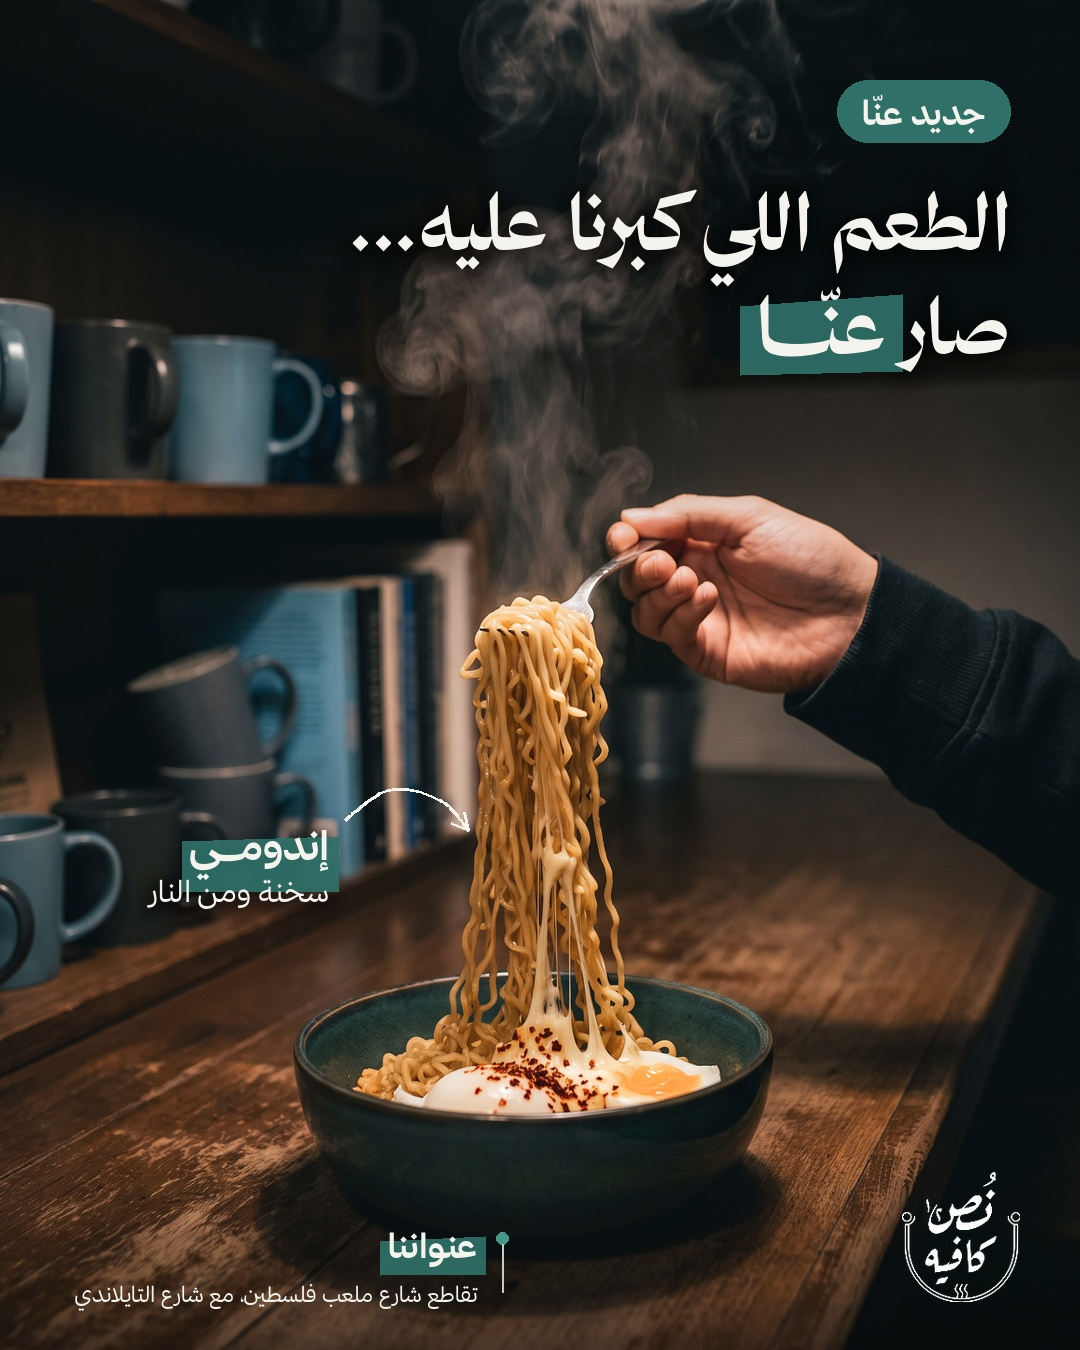
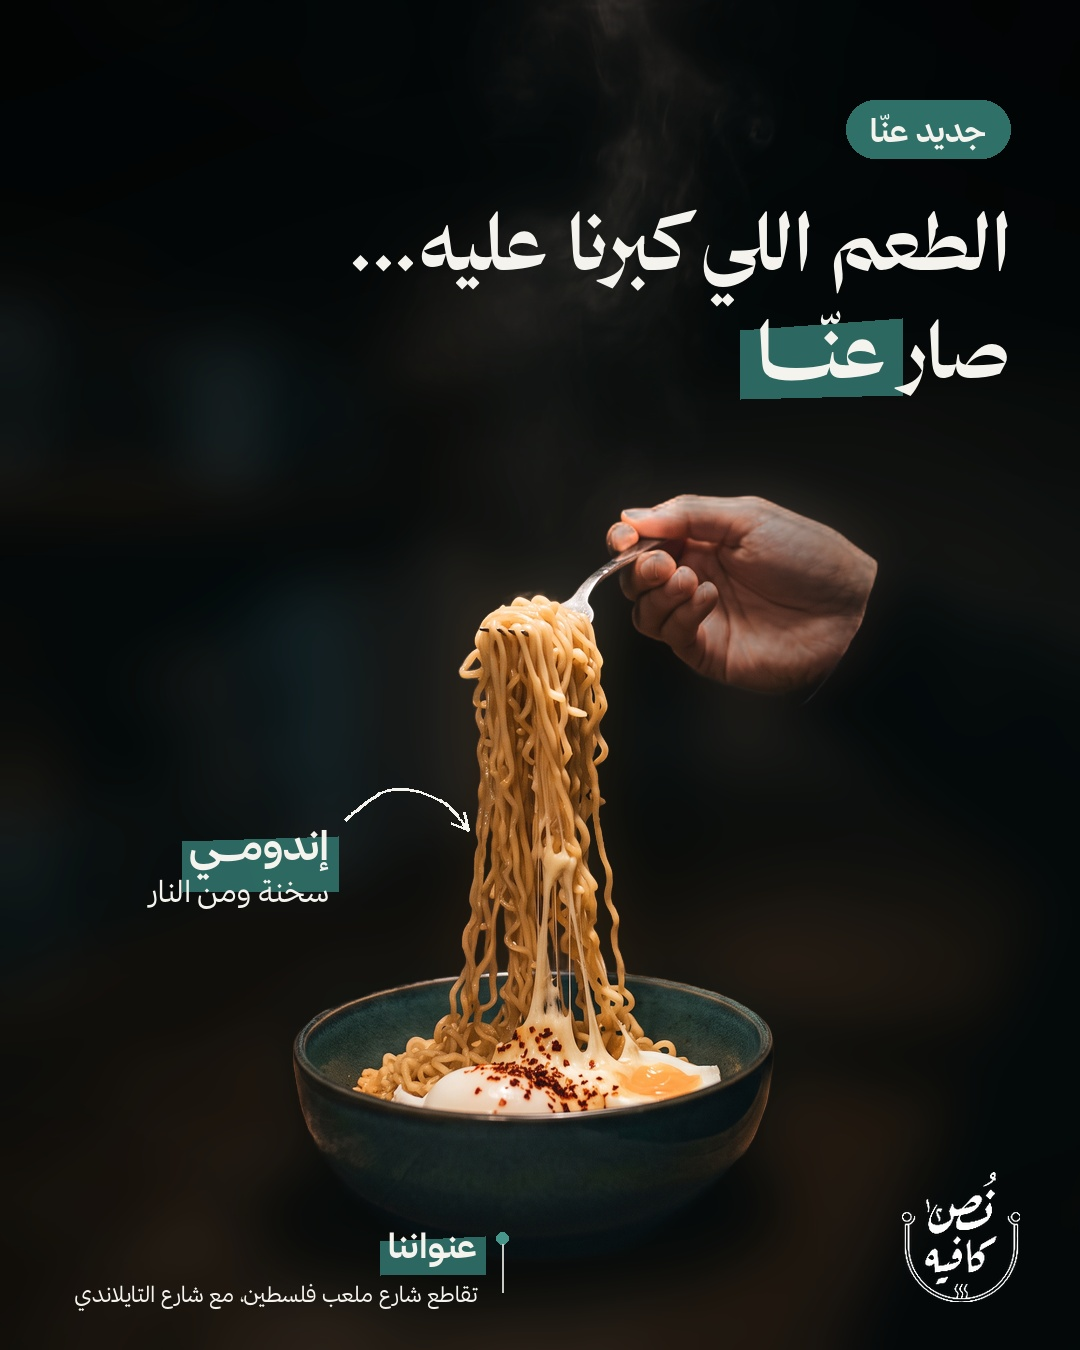
Rework Indomie posts per owner feedback: no text shadow, cleaner layout, blurred background
Claude-Session: https://claude.ai/code/session_015dwSS3fWoFBppmEP84oyNx

diff --git a/tools/example_indomie.py b/tools/example_indomie.py
@@ -1,34 +1,49 @@
-import os; exec(open(os.path.join(os.path.dirname(os.path.abspath(__file__)),'example_sample_style.py')).read().split("out=[]")[0])
-def load(n): return cover(Image.open(S+f'indomie/i{n}.png').convert('RGB')).convert('RGBA')
+import os; exec(open(os.path.join(os.path.dirname(os.path.abspath(__file__)),'post.py')).read())
+def compose(n,dy=0,zoom=1.0,bright=.33):
+    im=cover(Image.open(S+f'indomie/i{n}.png').convert('RGB')); m=Image.open(S+f'indomie/m{n}.png').convert('L')
+    m=m.point(lambda v:min(255,int(v*1.4)))
+    bg=im.filter(ImageFilter.GaussianBlur(26)); bg=ImageEnhance.Brightness(bg).enhance(bright)
+    bg=Image.blend(bg,Image.new('RGB',(W,H),(10,24,23)),.25)
+    sharp=Image.composite(im,bg,m)
+    if zoom!=1.0 or dy:
+        s=sharp.resize((round(W*zoom),round(H*zoom)),Image.LANCZOS); mm=m.resize(s.size)
+        base=bg.resize((round(W*1.15),round(H*1.15))).crop((round(W*.075),round(H*.075),round(W*.075)+W,round(H*.075)+H))
+        x=(W-s.width)//2; base.paste(s,(x,dy),mm.point(lambda v:255 if v>0 else 0).filter(ImageFilter.GaussianBlur(3)) if False else None) if False else None
+        canvas=bg.copy(); canvas.paste(s,(x,dy)); 
+        # blend seam: fade top of pasted region
+        fm=Image.new('L',s.size,255); fd=ImageDraw.Draw(fm)
+        for i in range(120): fd.line([(0,i),(s.width,i)],fill=int(255*i/120))
+        canvas=bg.copy(); canvas.paste(s,(x,dy),fm); sharp=canvas
+    # vignette
+    v=Image.new('L',(W//4,H//4),0); vd=ImageDraw.Draw(v); vd.ellipse([-40,40,W//4+40,H//4+40],fill=255)
+    v=v.filter(ImageFilter.GaussianBlur(40)).resize((W,H))
+    sharp=Image.composite(sharp,ImageEnhance.Brightness(sharp).enhance(.55),v)
+    return sharp.convert('RGBA')
 def pill(img,XR,y,t='جديد عنّا'):
-    d=ImageDraw.Draw(img); f=SB(34); w=tw(d,t,f)
-    d.rounded_rectangle([XR-w-50,y,XR,y+62],radius=31,fill=(47,112,104)); d.text((XR-25,y+45),t,font=f,fill=WHITE,direction='rtl',anchor='rs')
+    d=ImageDraw.Draw(img); f=SB(32); w=tw(d,t,f)
+    d.rounded_rectangle([XR-w-48,y,XR,y+58],radius=29,fill=(47,112,104)); d.text((XR-24,y+42),t,font=f,fill=WHITE,direction='rtl',anchor='rs')
+def head(img,l1,a,b,XR=1010,y=270,f=None,gap=108):
+    f=f or DB(84); d=ImageDraw.Draw(img); wa=tw(d,a,f) if a else 0
+    hl(img,d,XR-wa,y+gap,b,f,pad=(16,4),skew=8); d=ImageDraw.Draw(img)
+    text(d,XR,y,l1,f)
+    if a: text(d,XR,y+gap,a,f)
+    text(d,XR-wa,y+gap,b,f)
+def lab(img,lx,ly,bo,su,arr):
+    d=ImageDraw.Draw(img); hl(img,d,lx,ly,bo,SB(40),pad=(8,2),skew=3); d=ImageDraw.Draw(img)
+    text(d,lx,ly,bo,SB(40)); text(d,lx,ly+42,su,SR(30)); arrow(img,arr)
 out=[]
-# 1 rainy window
-im=load(1); scrim(im,(140,40,820,420)); fade_bottom(im)
-pill(im,760,80)
-headline(im,760,250,'برّا بتشتّي...','وجوّا ','إندومـــي',DB(86),gap=110)
-label(im,620,640,'إندومـــي','مع بيضة وبهار',[(560,690),(550,740),(530,775),(510,800)])
+im=compose(1); pill(im,1010,100); head(im,'برّا بتشتّي...','وجوّا ','إندومـــي')
+lab(im,1000,690,'إندومـــي','مع بيضة وبهار',[(860,700),(800,720),(740,760),(700,800)])
 footer(im,ImageDraw.Draw(im)); out.append(im)
-# 2 fork lift
-im=load(2); scrim(im,(420,40,1060,420)); fade_bottom(im)
-pill(im,1010,80)
-headline(im,1010,250,'الطعم اللي كبرنا عليه...','صار ','عنّـــا',DB(78),gap=104)
-label(im,330,860,'إندومـــي','سخنة ومن النار',[(345,820),(390,790),(440,800),(468,830)])
+im=compose(2); pill(im,1010,100); head(im,'الطعم اللي كبرنا عليه...','صار ','عنّـــا',f=DB(78))
+lab(im,330,860,'إندومـــي','سخنة ومن النار',[(345,820),(390,790),(440,800),(468,830)])
 footer(im,ImageDraw.Draw(im)); out.append(im)
-# 3 woman winter (headline bottom like sample)
-im=load(3)
+im=compose(3,dy=260,zoom=1.0); pill(im,1010,90); head(im,'بردانين؟','دفّوا حالكم ','بإندومـــي',y=250,f=DB(80),gap=104)
+lab(im,300,700,'إندومي','سخنة وبتدفّي',[(240,760),(270,840),(350,900),(425,925)])
 g=Image.new('L',(1,H))
-for y in range(H): g.putpixel((0,y),int(255*min(1,max(0,(y-H*.68)/(H*.32))**1.3*.75)))
+for y in range(H): g.putpixel((0,y),int(255*min(1,max(0,(y-H*.86)/(H*.14))**1.2*.55)))
 im.alpha_composite(Image.merge('RGBA',(*Image.new('RGB',(W,H),(8,10,10)).split(),g.resize((W,H)))))
-f=DB(120); d=ImageDraw.Draw(im)
-shadow_text(im,[(1030,1130,'بردانين؟',f),(1030,1265,'دفّوا حالكم... بإندومـــي',DB(70))])
-d=ImageDraw.Draw(im); text(d,1030,1130,'بردانين؟',f)
-w=tw(d,'دفّوا حالكم... ب',DB(70)); hl(im,d,1030-w,1265,'إندومـــي',DB(70),pad=(12,3),skew=6); d=ImageDraw.Draw(im)
-text(d,1030,1265,'دفّوا حالكم... ب',DB(70)); text(d,1030-w,1265,'إندومـــي',DB(70))
-plain_label(im,1020,560,'إندومي سخنة',[(940,590),(900,640),(850,680),(805,700)])
-pill(im,1030,950)
-lg=Image.open(S+'logo.png'); lg=lg.resize((140,round(lg.height*140/lg.width)),Image.LANCZOS); im.alpha_composite(lg,(60,60)); out.append(im)
+footer(im,ImageDraw.Draw(im)); out.append(im)
 for i,im in enumerate(out): im.convert('RGB').save(S+f'out/indomie_{i+1}.jpg',quality=95)
 sh=Image.new('RGB',(540*3,675))
 for i,im in enumerate(out): sh.paste(im.convert('RGB').resize((540,675)),(i*540,0))

diff --git a/CLAUDE.md b/CLAUDE.md
@@ -38,3 +38,9 @@ The owner wants generation fully hooked up so Claude can work alone.
 - Scheduled so far: 15–24 Oct daily post + story (`posts/daily/SCHEDULE.md`), 25 Oct the Qunbulet al-Nuss reel (with generated music), and 26–30 Oct five posts from `posts/sample_style/`. The Qunbulet carousel and the first Spanish latte post are made but not scheduled.
 - **Captions:** the owner wants them **short**: one line plus an emoji, then `📍 تقاطع شارع ملعب فلسطين، مع شارع التايلاندي`, then 2–3 hashtags.
 - `brand/samples/` holds the owner's newest reference posts. Match their layouts.
+
+## Owner feedback (keep applying)
+- **No shadow or glow behind text.** Text sits on a darkened or blurred background instead.
+- Keep text near the top: headline top-right, a tag pill above it. Don't push text to the bottom.
+- Tidy, consistent layout: pill, then 2-line headline, then product label with arrow, then footer.
+- **Don't show too much of the place:** blur and darken the background around the product (rembg mask plus blur). See `tools/example_indomie.py`.
